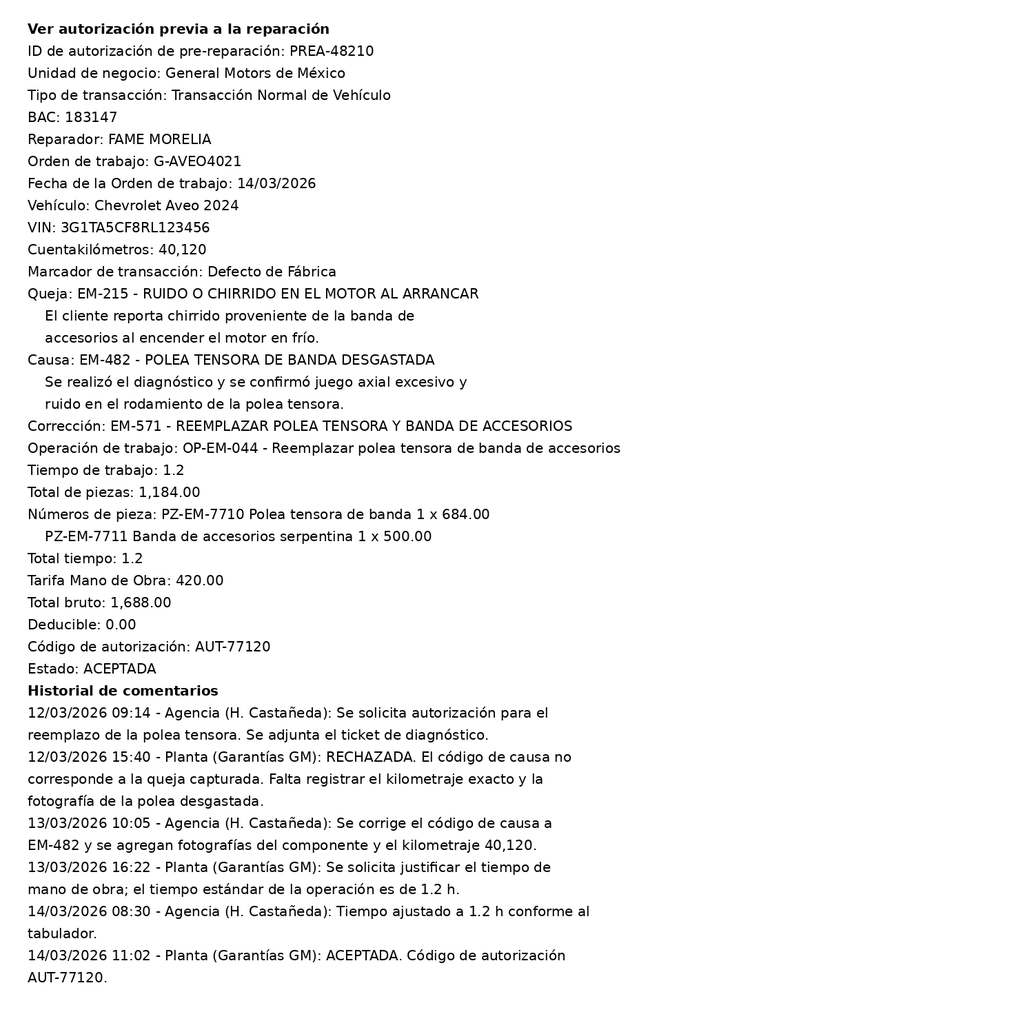
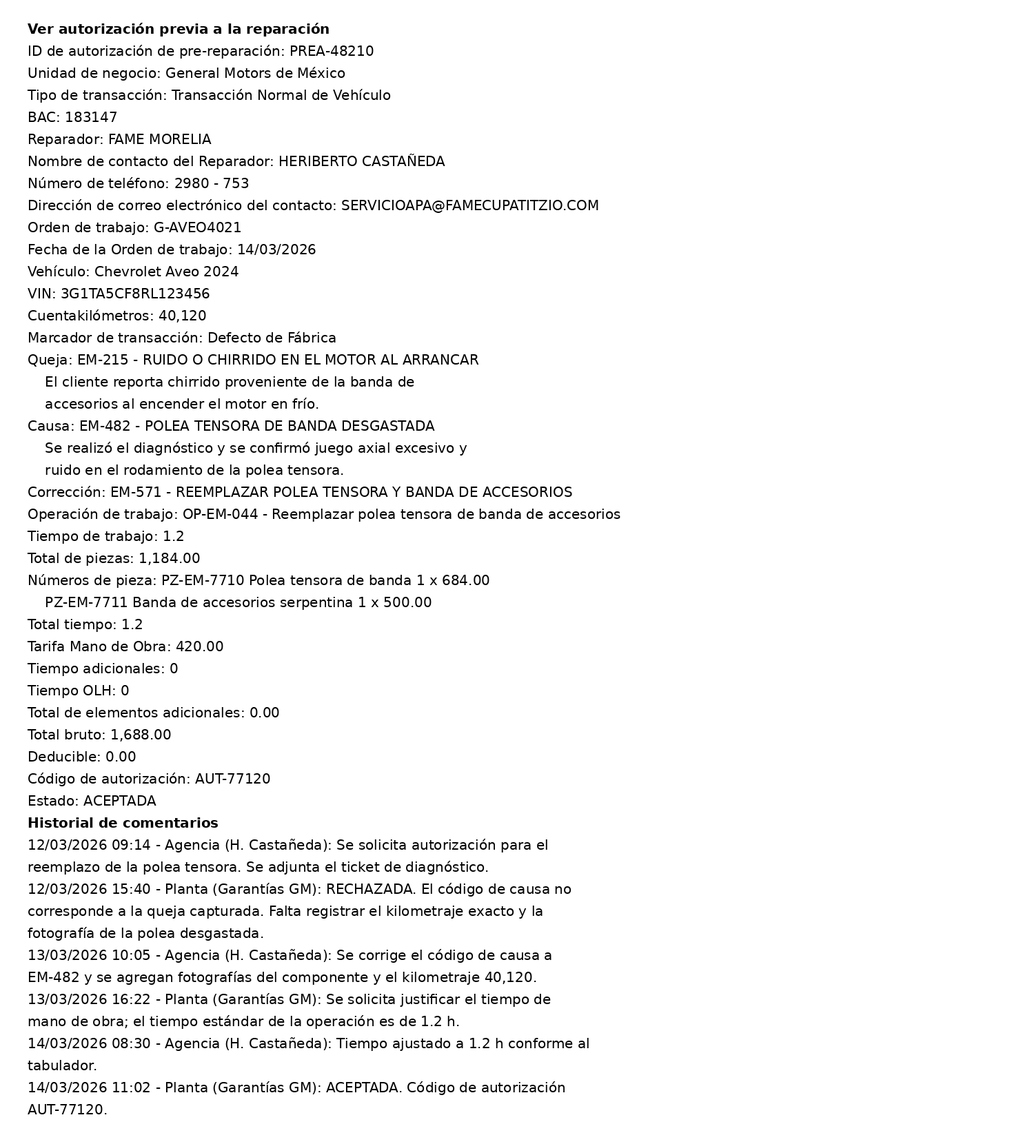
Todo el formulario de la PREA se aprende como regla (totales, tarifa, marcador, BAC, reparador, contacto, deducible…)
Variantes con tarifa, totales y marcador; valores por defecto de la agencia aprendidos del formulario
y usados por el Agente de Garantías y el chat de pruebas; reglas por campo visibles en «Ver datos»;
aprendizaje de PREAs incompletas y verificación de totales.

Claude-Session: https://claude.ai/code/session_01HHqSnwj4i5Tg1qjqFTLmED

Changed region(s): [[0.0307, 0.0, 0.6133, 0.9809], [0.4293, 0.4905, 0.46, 0.5211]]

diff --git a/index.html b/index.html
@@ -1364,7 +1364,7 @@ function ctxFrom(text,files,brand){
     km:km,kmTxt:km.toLocaleString('es-MX'),date:fmt(now),deliv:fmt(dl),vehicle:'Pickup '+dl.getFullYear()+' (ejemplo)',vin:'3GCDEMO5JG0000001',
     queja:t?(t.length>140?t.slice(0,137)+'…':t):'Falla reportada por el cliente',files:files,
     folio:'PREA-DEMO-'+String(Math.floor(100000+Math.random()*900000)),
-    ruleId:rl?rl.id:null,ruleN:rl?rl.n:0,ruleConf:rl?RS.conf(rl):0,matched:!!rl,codes:rl?(c.codes||{q:rl.q,c:rl.c,r:rl.r}):null,variantTxt:rl&&c.variant?[c.variant.mo,c.variant.an].filter(Boolean).join(' '):'',lessons:rl?(rl.les||[]):[],
+    ruleId:rl?rl.id:null,ruleN:rl?rl.n:0,ruleConf:rl?RS.conf(rl):0,matched:!!rl,codes:rl?(c.codes||{q:rl.q,c:rl.c,r:rl.r}):null,variantTxt:rl&&c.variant?[c.variant.mo,c.variant.an].filter(Boolean).join(' '):'',rate:c.rate||0,marcador:c.marcador||'',extra:c.extra||null,form:RS.d.form||{},lessons:rl?(rl.les||[]):[],
     rawText:t,vinReal:(t.match(/\b[A-HJ-NPR-Z0-9]{17}\b/i)||[''])[0].toUpperCase(),wo:(t.match(/\bG-[A-Z0-9]{6,10}\b/i)||[''])[0].toUpperCase()};
 }
 function introText(ctx){
@@ -1529,7 +1529,7 @@ var GMCODES={
 };
 function gmData(c){
   var fm=function(n){return n.toLocaleString('en-US',{minimumFractionDigits:2,maximumFractionDigits:2})};
-  var k=c.codes||GMCODES[c.sys]||GMCODES['Diagnóstico general'],sys=c.sys.toLowerCase(),RT=420,now=new Date();
+  var k=c.codes||GMCODES[c.sys]||GMCODES['Diagnóstico general'],sys=c.sys.toLowerCase(),RT=c.rate||420,now=new Date();
   var wo=c.wo||('G-'+Math.random().toString(36).slice(2,9).toUpperCase());
   var lab=+(c.h*RT).toFixed(2),gross=+(lab+c.partsTot).toFixed(2);
   return {fm:fm,RT:RT,gross:gross,lab:lab,wo:wo,
@@ -1563,23 +1563,23 @@ function gmFields(ctx){
 function buildPreaCard(ctx,steps){
   var g=gmData(ctx),F=gmFields(ctx),w=document.createElement('div');w.className='cu-wrap';
   var li=(steps||STEPS).map(function(t){return '<li data-s="pending"><span class="mk"><svg class="k" viewBox="0 0 24 24"><path d="M20 6 9 17l-5-5"/></svg><svg class="w" viewBox="0 0 24 24"><path d="M12 6v7M12 18h.01"/></svg></span><span><span class="t">'+t+'</span><span class="det"></span></span></li>'}).join('');
-  var H=gr;
+  var H=gr,FD=ctx.form||{},EXT=ctx.extra||{};
   var form='<div class="gmf" hidden>'+
    '<div class="gtop"><div class="glogo">gm</div><span class="gclose">Cerrar ventana ×</span></div>'+
    '<h3>Ver autorización previa a la reparación</h3><p class="gsub">Esta pantalla permite al usuario ver la información de una autorización previa a la reparación existente.</p>'+
    '<div class="gtabs"><span class="gtab">Autorización previa a reparación</span></div>'+
    '<div class="gbar"><span><b>Formulario sugerido por Ax Ai.</b> Los campos resaltados son los que debes capturar.</span><button class="gall" type="button" disabled>Copiar todo</button></div>'+
    '<div class="gdis"><b>Aviso de exención de responsabilidad:</b><span>Todas las cantidades son en bruto</span><i>EDITAR</i></div>'+
-   H('ID de autorización de pre-reparación','—')+H('Unidad de negocio','General Motors de México')+H('Tipo de transacción','Transacción Normal de Vehículo')+
-   H('BAC','183147')+H('Reparador','FAME MORELIA')+H('Nombre de contacto del Reparador','HERIBERTO CASTAÑEDA')+H('Número de teléfono','2980 - 753')+H('Número del fax','')+
-   H('Dirección de correo electrónico del contacto','SERVICIOAPA@FAMECUPATITZIO.COM')+H('Número de la transacción','')+
+   H('ID de autorización de pre-reparación','—')+H('Unidad de negocio',esc(FD.unidad||'General Motors de México'))+H('Tipo de transacción',esc(FD.tipo_transaccion||'Transacción Normal de Vehículo'))+
+   H('BAC',esc(FD.bac||'183147'))+H('Reparador',esc(FD.reparador||'FAME MORELIA'))+H('Nombre de contacto del Reparador',esc(FD.contacto||'HERIBERTO CASTAÑEDA'))+H('Número de teléfono',esc(FD.telefono||'2980 - 753'))+H('Número del fax','')+
+   H('Dirección de correo electrónico del contacto',esc(FD.email||'SERVICIOAPA@FAMECUPATITZIO.COM'))+H('Número de la transacción','')+
    H('Orden de trabajo',g.wo)+H('Fecha de la Orden de trabajo',g.date)+H('Nombre de usuario',esc(ctx.rawText||'—'))+H('Hora de presentación',esc(g.hora))+H('Número de referencia',g.wo)+
-   gr('VIN',null,{f:0})+gr('Cuentakilómetros',null,{f:1})+H('Marcador de transacción','Defecto de Fábrica')+
+   gr('VIN',null,{f:0})+gr('Cuentakilómetros',null,{f:1})+H('Marcador de transacción',esc(ctx.marcador||FD.marcador||'Defecto de Fábrica'))+
    gr('Queja',null,{f:2})+gr('',null,{f:3,area:1})+gr('Causa',null,{f:4})+gr('',null,{f:5,area:1})+gr('Corrección',null,{f:6})+gr('',null,{f:7,area:1})+
    gr('Operación de trabajo',null,{f:8})+gr('Tiempo de trabajo',null,{f:9})+gr('Total de piezas',null,{f:10})+gr('Números de pieza',null,{f:11})+gr('Total tiempo',null,{f:12})+
-   H('Tarifa Mano de Obra',g.fm(g.RT))+H('Tiempo adicionales','0')+H('Tiempo OLH','0')+
+   H('Tarifa Mano de Obra',g.fm(g.RT))+H('Tiempo adicionales',String(EXT.tiempo_adicional||0))+H('Tiempo OLH',String(EXT.olh||0))+
    '<div class="ghd">No se encontraron líneas.</div><table class="gtb"><thead><tr><th>Tipo de adicionales/otros</th><th>Cantidad</th></tr></thead><tbody><tr><td colspan="2">&nbsp;</td></tr></tbody></table>'+
-   H('Total de elementos adicionales','0.00')+gr('Total bruto',null,{f:13})+H('Deducible','0.00')+H('Código de autorización','')+H('Asignado a','')+H('Estado','<span class="gst">POR CAPTURAR</span>')+
+   H('Total de elementos adicionales',g.fm(EXT.elementos_adicionales||0))+gr('Total bruto',null,{f:13})+H('Deducible',g.fm(EXT.deducible||0))+H('Código de autorización','')+H('Asignado a','')+H('Estado','<span class="gst">POR CAPTURAR</span>')+
    '<div class="gbk"><b>Respaldo del agente</b><ul><li>'+basis(ctx)+'</li>'+(ctx.variantTxt?'<li>Variante aprendida de <b>'+esc(ctx.variantTxt)+'</b>.</li>':'')+(ctx.lessons||[]).slice(0,3).map(function(l){return '<li>Ojo: '+esc(l.p)+(l.c?' → '+esc(l.c):'')+'</li>'}).join('')+'<li>Tiempo estándar de la operación: '+ctx.h.toFixed(1)+' h.</li>'+ctx.parts.map(function(p){return '<li>'+p.no+' · '+esc(p.d)+' · cant. '+p.q+' · '+g.fm(p.pr)+' c/u</li>'}).join('')+'</ul></div>'+
    (ctx.prueba?'':'<div class="gfb"><span>¿Qué respondió el fabricante en su portal? Tu respuesta enseña al agente.</span><button class="gfa" type="button" data-r="ok">Fue aceptada</button><button class="gfa" type="button" data-r="no">Fue rechazada</button></div>')+
    '</div>';
@@ -1745,8 +1745,9 @@ RS.toCase=function(r,text){
   var arr=Object.keys(r.parts).map(function(no){var p=r.parts[no];return {no:no,p:p}}).sort(function(a,b){return b.p.n-a.p.n});
   var keep=arr.filter(function(x){return x.p.n>=r.n*0.5});if(!keep.length)keep=arr.slice(0,1);
   var c={sys:r.sys,op:r.op,opd:r.opd,h:r1(r.hSum/Math.max(r.n,1)),parts:keep.map(function(x){return [x.no,x.p.d,x.p.q,x.p.pr]}),codes:null,variant:null};
-  var v=RS.variantFor(r,text);
-  if(v){c.op=v.op||r.op;c.opd=v.opd||r.opd;if(v.h)c.h=r1(v.h);if(v.parts&&v.parts.length)c.parts=v.parts.map(function(p){return [p[0],p[1],p[2],p[3]]});c.codes={q:r.q,c:(v.c&&v.c[0]?v.c:r.c),r:(v.r&&v.r[0]?v.r:r.r)};c.variant=v}
+  var v=RS.variantFor(r,text),n0=r.ctx&&r.ctx[0];
+  if(n0){c.rate=n0.t||null;c.marcador=n0.mk||'';c.extra=n0.ex||null}
+  if(v){c.rate=v.t||c.rate;c.marcador=v.mk||c.marcador;c.extra=v.ex||c.extra;c.op=v.op||r.op;c.opd=v.opd||r.opd;if(v.h)c.h=r1(v.h);if(v.parts&&v.parts.length)c.parts=v.parts.map(function(p){return [p[0],p[1],p[2],p[3]]});c.codes={q:r.q,c:(v.c&&v.c[0]?v.c:r.c),r:(v.r&&v.r[0]?v.r:r.r)};c.variant=v}
   return c;
 };
 RS.note=function(hit){RS.d.stats.q++;if(hit)RS.d.stats.hit++;RS.save();RS.emit()};
@@ -1922,7 +1923,7 @@ function adRender(){
       '<span class="bg s-'+r.status+'">'+ST_LBL[r.status]+'</span></button>'+
       '<div class="rl-b"><div class="rl-g"><div><span>Queja</span>'+esc(r.q.join(' - '))+'</div><div><span>Causa</span>'+esc(r.c.join(' - '))+'</div><div><span>Corrección</span>'+esc(r.r.join(' - '))+'</div><div><span>Operación</span>'+esc(r.op)+' · '+esc(r.opd)+'</div></div>'+
       '<div class="rl-s"><span>Aprendida de: '+r.src.base+' base · '+r.src.historico+' históricas · '+r.src.asesor+' de asesores · '+r.rej+' rechazos</span><span>Palabras clave: '+esc(r.kw.join(', ')||'—')+'</span></div>'+
-      (r.ctx&&r.ctx.length?'<div class="rl-s"><span>Contextos aprendidos: '+esc(r.ctx.map(function(v){return [v.mo,v.an].filter(Boolean).join(' ')+(v.km?' · '+v.km.toLocaleString('es-MX')+' km':'')+' → '+(v.op||'')+(v.h?' · '+v.h+' h':'')}).join('  |  '))+'</span></div>':'')+
+      (r.ctx&&r.ctx.length?'<div class="rl-s"><span>Contextos aprendidos: '+esc(r.ctx.map(function(v){return [v.mo,v.an].filter(Boolean).join(' ')+(v.km?' · '+v.km.toLocaleString('es-MX')+' km':'')+' → '+(v.op||'')+(v.h?' · '+v.h+' h':'')+(v.t?' · tarifa $'+v.t:'')+(v.tb!=null?' · total $'+v.tb.toLocaleString('es-MX'):'')}).join('  |  '))+'</span></div>':'')+
       (r.les&&r.les.length?'<ul class="rl-p">'+r.les.map(function(l){return '<li><b>Error aprendido:</b> '+esc(l.p)+(l.c?' <em>→ '+esc(l.c)+'</em>':'')+'</li>'}).join('')+'</ul>':'')+
       '<ul class="rl-p">'+parts+'</ul><div class="rl-a">'+acts+'</div></div></div>';
   }).join('');
@@ -3132,7 +3133,7 @@ function trRender(){
   var body=!AX.on?'<div class="tr-empty" style="border:0">Conecta el backend: el entrenamiento se guarda en el servidor. Abre la app desde el sitio del servidor e inicia sesión.</div>':TR.err?'<div class="tr-empty" style="border:0">'+TR.err+'<br><button class="bt" data-trretry="1" style="margin-top:10px">Reintentar</button></div>':
    '<p class="tr-intro">Entrena al agente con documentos reales de tu agencia. Lee PDFs e imágenes, valida cada PREA contra las reglas que ya conoce y aprende todos los datos: cómo se llenó cada campo, qué rechazó la planta y cómo se corrigió, y cuánto pagó realmente.</p>'+
    '<div class="tr-stats"><div class="tr-st"><b>'+r.preas+'</b><span>PREAs aceptadas aprendidas</span></div><div class="tr-st"><b>'+r.pagos+'</b><span>Transacciones pagadas aprendidas</span></div><div class="tr-st"><b>'+r.reglas+'</b><span>Reglas moldeadas por documentos</span></div><div class="tr-st"><b>'+(r.revisar+r.pendientes)+'</b><span>Por revisar o leyéndose</span></div></div>'+
-   trCard('prea',1,'PREAs aceptadas','Sube PREAs que la planta ya aceptó: <b>con una sola basta</b> para crear la regla y activarla. El agente lee el formulario y el <b>historial de comentarios</b> y aprende cómo se llenó cada campo, por qué se rechazó antes y cómo se corrigió. Si es parecida a otra pero de otro modelo o contexto, la guarda como variante. También puedes subir PREAs <b>rechazadas</b>: aprende del error y lo avisa la próxima vez.','Todavía no has subido PREAs aceptadas.')+
+   trCard('prea',1,'PREAs aceptadas','Sube PREAs que la planta ya aceptó: <b>con una sola basta</b> para crear la regla y activarla. El agente lee <b>todo el formulario</b> (queja, causa, corrección, operación, tiempo, números de pieza, totales, tarifa, marcador, tipo de transacción, BAC, reparador, deducible…) y el <b>historial de comentarios</b>, y cada campo se vuelve una regla; por qué se rechazó antes y cómo se corrigió. Si es parecida a otra pero de otro modelo o contexto, la guarda como variante. También puedes subir PREAs <b>rechazadas</b>: aprende del error y lo avisa la próxima vez.','Todavía no has subido PREAs aceptadas.')+
    trCard('pago',2,'Transacciones pagadas de planta','Sube solo transacciones que la planta ya pagó correctamente. El agente aprende el tiempo pagado, la tarifa, el precio de cada pieza y los ajustes, y los liga con su PREA para corregir horas y precios de las reglas.','Todavía no has subido transacciones pagadas.')+
    '<section class="tr-card"><div class="tr-ch"><div><h3><i>3</i>Probar al agente</h3><p>Describe la reparación que necesitas (modelo, año, kilometraje y falla) y el agente te entrega <b>el formulario de la PREA completo y llenado</b> con lo que aprendió de las PREAs aceptadas, ya corregidos los errores que tuvieron en el pasado. O sube tu PREA y te la corrige. También puedes preguntarle qué aprendió y por qué rechazaron una PREA.</p></div><button class="bt pri" data-trchat="1">Abrir chat de pruebas</button></div>'+
    '<div class="tr-pr"><p>¿Quieres probar el flujo sin tus archivos? Descarga los documentos de ejemplo (un Aveo 2024 con cambio de polea y un Equinox 2023), súbelos en los apartados 1 y 2 y valida la PREA con errores en el chat.</p></div>'+
@@ -3150,8 +3151,10 @@ function trModal(){
   if(!x||!x.tipo)body='<div class="tr-empty" style="border:0">Todavía no hay datos leídos de este archivo.</div>';
   else if(esP){
     body='<div><h4>Datos generales</h4><div class="tr-g">'+trField('Folio',x.folio)+trField('Orden de trabajo',x.orden)+trField('Fecha',x.fecha&&hmF(Date.parse(x.fecha+'T12:00:00')))+trField('Vehículo',[x.marca,x.modelo,x.anio].filter(Boolean).join(' '))+trField('VIN',x.vin)+trField('Kilometraje',x.km&&x.km.toLocaleString('en-US')+' km')+trField('Sistema',x.sistema)+trField('Resultado',x.estado)+trField('Autorización',x.codigo_autorizacion)+trField('Tiempo',x.horas!=null?x.horas+' h':'')+trField('Tarifa',x.tarifa_mo!=null?carM(x.tarifa_mo):'')+trField('Total bruto',x.total_bruto!=null?carM(x.total_bruto):'')+'</div></div>'+
+     (x.campos_extra&&Object.keys(x.campos_extra).length?'<div><h4>Otros campos del formulario</h4><div class="tr-g">'+[['unidad','Unidad de negocio'],['tipo_transaccion','Tipo de transacción'],['bac','BAC'],['reparador','Reparador'],['marcador','Marcador de transacción'],['contacto','Contacto'],['telefono','Teléfono'],['email','Correo'],['deducible','Deducible'],['tiempo_adicional','Tiempo adicional'],['olh','Tiempo OLH'],['elementos_adicionales','Elementos adicionales']].filter(function(p){return x.campos_extra[p[0]]!=null}).map(function(p){var v=x.campos_extra[p[0]];return trField(p[1],typeof v==='number'&&/deducible|elementos/.test(p[0])?carM(v):v)}).join('')+'</div></div>':'')+
      '<div><h4>Cómo se llenó</h4><div class="tr-cf">'+trCod('Queja',x.queja)+trCod('Causa',x.causa)+trCod('Corrección',x.correccion)+trCod('Operación de trabajo',{codigo:x.operacion&&x.operacion.codigo,texto:x.operacion&&x.operacion.descripcion})+'</div></div>'+
      '<div><h4>Piezas</h4>'+((x.piezas||[]).length?'<table class="tr-tb"><thead><tr><th>Número</th><th>Descripción</th><th class="n">Cant.</th><th class="n">Precio</th></tr></thead><tbody>'+x.piezas.map(function(p){return '<tr><td>'+escA(p.numero)+'</td><td>'+escA(p.descripcion)+'</td><td class="n">'+(p.cantidad||1)+'</td><td class="n">'+(p.precio!=null?carM(p.precio):'—')+'</td></tr>'}).join('')+'</tbody></table>':'<div class="sm" style="color:var(--muted)">Sin piezas leídas.</div>')+'</div>'+
+     ((x._reglas||[]).length?'<div><h4>Reglas que aprendió de esta PREA</h4><table class="tr-tb"><thead><tr><th>Campo</th><th>Valor aprendido</th><th>Regla</th></tr></thead><tbody>'+x._reglas.map(function(r){return '<tr><td>'+escA(r.campo)+'</td><td>'+escA(r.valor)+'</td><td><span class="tr-v '+(r.estado==='distinto'?'difiere':r.estado==='igual'?'ok':'')+'">'+({nuevo:'Nuevo',igual:'Ya la conocía',distinto:'Variante'}[r.estado]||r.estado)+'</span></td></tr>'}).join('')+'</tbody></table></div>':'')+
      ((x.lecciones||[]).length?'<div><h4>Errores del pasado y cómo se corrigieron</h4><div class="tr-lc">'+x.lecciones.map(function(l){return '<div>'+escA(l.problema)+(l.correccion?'<small><b>Corrección:</b> '+escA(l.correccion)+'</small>':'')+((l.temas||[]).length?'<small style="color:var(--muted)">'+escA(l.temas.join(' · '))+'</small>':'')+'</div>'}).join('')+'</div></div>':'')+
      ((x.comentarios||[]).length?'<div><h4>Historial de comentarios</h4><div class="tr-tl">'+x.comentarios.map(function(c){return '<div class="'+(c.origen||'')+'"><small>'+escA(c.fecha||'')+' '+escA(c.hora||'')+' · '+escA(c.autor||c.origen||'')+'<span class="tp '+c.tipo+'">'+escA(c.tipo||'')+'</span></small>'+escA(c.texto)+'</div>'}).join('')+'</div></div>':'');
   }else{
@@ -3231,6 +3234,7 @@ function ctxDeFormulario(f,text,files){
   c.codes={q:[f.queja.codigo,f.queja.texto],c:[f.causa.codigo,f.causa.texto],r:[f.correccion.codigo,f.correccion.texto]};
   c.vinReal=f.vin||'(captura el VIN)';if(f.orden)c.wo=f.orden;
   c.vehicle=f.vehiculo||c.vehicle;c.matched=true;c.ruleId=f.regla?f.regla.id:null;c.ruleN=f.regla?f.regla.n:1;c.ruleConf=f.regla?f.regla.confianza:0;
+  c.rate=f.tarifa||0;c.marcador=(f.extras&&f.extras.marcador)||'';c.extra=f.extras||null;c.form=Object.assign({},RS.d.form||{},f.extras||{});
   c.rawText=(f.descripcion||text||'').trim()||c.rawText;c.prueba=true;
   return c;
 }

diff --git a/server/train/learn.js b/server/train/learn.js
@@ -21,11 +21,24 @@ function claveRegla(d) {
   const sys = d.sistema || 'Por clasificar';
   return { sys, qCode: (d.queja.codigo || '') || 'SC-' + hash6(P.norm(d.queja.texto || d.operacion.descripcion || '')) };
 }
-function guardarVariante(doc, ruleId, d) {
-  db.prepare(`INSERT INTO rule_variants (rule_id, doc_id, marca, modelo, anio, km, op, op_desc, c_code, c_text, r_code, r_text, hours, parts, created_at) VALUES (?,?,?,?,?,?,?,?,?,?,?,?,?,?,?)`)
+const CAMPOS_FIJOS = [['unidad', 'Unidad de negocio'], ['tipo_transaccion', 'Tipo de transacción'], ['bac', 'BAC'], ['reparador', 'Reparador'], ['marcador', 'Marcador de transacción'], ['contacto', 'Nombre de contacto'], ['telefono', 'Teléfono'], ['email', 'Correo del contacto']];
+const leerDefaults = () => { try { return JSON.parse(getSet('form_defaults', '{}')); } catch (_) { return {}; } };
+function guardarVariante(doc, ruleId, d, h) {
+  const ex = d.campos_extra || {};
+  db.prepare(`INSERT INTO rule_variants (rule_id, doc_id, marca, modelo, anio, km, op, op_desc, c_code, c_text, r_code, r_text, hours, parts, tarifa, total_piezas, total_bruto, marcador, extra, created_at) VALUES (?,?,?,?,?,?,?,?,?,?,?,?,?,?,?,?,?,?,?,?)`)
     .run(ruleId, doc.id, d.marca || '', d.modelo || '', d.anio || null, d.km || null, d.operacion.codigo || '', d.operacion.descripcion || '', d.causa.codigo || '', d.causa.texto || '', d.correccion.codigo || '', d.correccion.texto || '',
-      Number(d.horas) || 0, JSON.stringify((d.piezas || []).map(p => [p.numero || 'S/N', p.descripcion || '', p.cantidad || 1, p.precio || 0])), Date.now());
+      h, JSON.stringify((d.piezas || []).map(p => [p.numero || 'S/N', p.descripcion || '', p.cantidad || 1, p.precio || 0])), d.tarifa_mo || null, d.total_piezas != null ? d.total_piezas : null, d.total_bruto != null ? d.total_bruto : null,
+      ex.marcador || '', JSON.stringify({ tipo_transaccion: ex.tipo_transaccion, deducible: ex.deducible, tiempo_adicional: ex.tiempo_adicional, olh: ex.olh, elementos_adicionales: ex.elementos_adicionales }), Date.now());
 }
+// Datos fijos de la agencia (BAC, reparador, contacto, unidad de negocio...): se aprende el valor más frecuente de las PREAs aceptadas
+function sumarDefaults(d, signo) {
+  const m = leerDefaults(), ex = d.campos_extra || {}, usados = [];
+  CAMPOS_FIJOS.forEach(([k]) => { const v = ex[k]; if (!v) return; m[k] = m[k] || {}; m[k][v] = Math.max(0, (m[k][v] || 0) + signo); if (!m[k][v]) delete m[k][v]; usados.push([k, v]); });
+  putSet('form_defaults', JSON.stringify(m));
+  return usados;
+}
+const igual = (a, b) => String(a == null ? '' : a).trim().toUpperCase() === String(b == null ? '' : b).trim().toUpperCase();
+const cod = c => c && (c.codigo || c.texto) ? [c.codigo, c.texto].filter(Boolean).join(' · ') : '';
 function guardarLecciones(doc, k, lecs, origen) {
   let n = 0;
   (lecs || []).forEach(l => {
@@ -40,14 +53,15 @@ function guardarLecciones(doc, k, lecs, origen) {
 function aprenderPrea(doc, d) {
   const now = Date.now(), K = claveRegla(d), sys = K.sys, qCode = K.qCode;
   let rule = db.prepare('SELECT * FROM rules WHERE sys = ? AND q_code = ?').get(sys, qCode), kind, val = [];
-  const h = Number(d.horas) || 0, pz = d.piezas || [];
+  const hRaw = Number(d.horas) || 0, pz = d.piezas || [];
+  const h = hRaw || (rule ? rule.hours_sum / Math.max(rule.n, 1) : 0);
   const insPart = db.prepare('INSERT INTO rule_parts (rule_id, part_no, descr, qty, price, n) VALUES (?,?,?,?,?,1) ON CONFLICT(rule_id, part_no) DO UPDATE SET n = n + 1, qty = excluded.qty, price = excluded.price, descr = excluded.descr');
   const insKw = db.prepare('INSERT OR IGNORE INTO rule_keywords (rule_id, keyword) VALUES (?, ?)');
   if (!rule) {
     const id = nextRuleId();
     db.prepare(`INSERT INTO rules (id, sys, q_code, q_text, c_code, c_text, r_code, r_text, op, op_desc, hours, hours_sum, n, rej, status, src_base, src_historico, src_asesor, created_at, updated_at)
                 VALUES (?,?,?,?,?,?,?,?,?,?,?,?,1,0,'aprendizaje',0,1,0,?,?)`)
-      .run(id, sys, qCode, d.queja.texto || '', d.causa.codigo || '', d.causa.texto || '', d.correccion.codigo || '', d.correccion.texto || '', d.operacion.codigo || '', d.operacion.descripcion || '', h, h, now, now);
+      .run(id, sys, qCode, d.queja.texto || '', d.causa.codigo || '', d.causa.texto || '', d.correccion.codigo || '', d.correccion.texto || '', d.operacion.codigo || '', d.operacion.descripcion || '', hRaw, hRaw, now, now);
     pz.forEach(p => insPart.run(id, p.numero || 'S/N', p.descripcion || '', p.cantidad || 1, p.precio || 0));
     keywords(d).forEach(w => insKw.run(id, w));
     logEvent('creada', id, `Regla nueva ${id}: ${(d.queja.texto || '').toLowerCase()} → ${d.operacion.codigo || d.operacion.descripcion} (${sys}) · aprendida de «${doc.name}»`);
@@ -60,7 +74,7 @@ function aprenderPrea(doc, d) {
     if (rule.op && d.operacion.codigo && rule.op !== d.operacion.codigo) dif.push(`opera con ${d.operacion.codigo} (la regla principal usa ${rule.op})`);
     if (rule.c_code && d.causa.codigo && rule.c_code !== d.causa.codigo) dif.push(`usa la causa ${d.causa.codigo} (la regla principal, ${rule.c_code})`);
     if (rule.r_code && d.correccion.codigo && rule.r_code !== d.correccion.codigo) dif.push(`usa la corrección ${d.correccion.codigo} (la regla principal, ${rule.r_code})`);
-    if (h && avg && Math.abs(h - avg) / avg > 0.2) dif.push(`toma ${h} h (promedio de la regla, ${r1(avg)} h)`);
+    if (hRaw && avg && Math.abs(hRaw - avg) / avg > 0.2) dif.push(`toma ${hRaw} h (promedio de la regla, ${r1(avg)} h)`);
     const nuevas = pz.filter(p => p.numero && !parts.includes(p.numero)).map(p => p.numero);
     if (nuevas.length) dif.push(`incluye piezas nuevas (${nuevas.join(', ')})`);
     const modeloNuevo = d.modelo && !previas.some(v => P.norm(v.modelo || '') === P.norm(d.modelo));
@@ -74,7 +88,30 @@ function aprenderPrea(doc, d) {
     rule = db.prepare('SELECT * FROM rules WHERE id = ?').get(rule.id); kind = 'reforzada';
     logEvent('reforzada', rule.id, `Regla ${rule.id} reforzada con la PREA «${doc.name}» · ${rule.n} en total`);
   }
-  guardarVariante(doc, rule.id, d);
+  // Reglas por campo: qué valor aprendió de cada campo del formulario y si ya lo conocía
+  const prev = db.prepare('SELECT * FROM rule_variants WHERE rule_id = ?').all(rule.id), ex = d.campos_extra || {}, reglas = [], defs = leerDefaults();
+  const base = kind === 'creada' ? null : rule;
+  const campo = (nombre, valor, conocido) => { if (valor == null || valor === '') return; reglas.push({ campo: nombre, valor: String(valor), estado: kind === 'creada' ? 'nuevo' : (conocido ? 'igual' : 'distinto') }); };
+  campo('Queja', cod(d.queja), base && igual(base.q_code, d.queja.codigo));
+  campo('Causa', cod(d.causa), base && prev.some(v => igual(v.c_code, d.causa.codigo)));
+  campo('Corrección', cod(d.correccion), base && prev.some(v => igual(v.r_code, d.correccion.codigo)));
+  campo('Operación de trabajo', [d.operacion.codigo, d.operacion.descripcion].filter(Boolean).join(' · '), base && prev.some(v => igual(v.op, d.operacion.codigo)));
+  campo('Tiempo de trabajo', hRaw ? hRaw + ' h' : '', base && prev.some(v => v.hours === hRaw));
+  campo('Números de pieza', pz.map(p => p.numero).join(', '), base && prev.some(v => JSON.parse(v.parts || '[]').map(x => x[0]).join(',') === pz.map(p => p.numero).join(',')));
+  campo('Total de piezas', d.total_piezas != null ? '$' + d.total_piezas.toLocaleString('en-US') : '', base && prev.some(v => v.total_piezas === d.total_piezas));
+  campo('Tarifa mano de obra', d.tarifa_mo ? '$' + d.tarifa_mo : '', base && prev.some(v => v.tarifa === d.tarifa_mo));
+  campo('Total bruto', d.total_bruto != null ? '$' + d.total_bruto.toLocaleString('en-US') : '', base && prev.some(v => v.total_bruto === d.total_bruto));
+  CAMPOS_FIJOS.forEach(([k, n]) => campo(n, ex[k], base && Object.keys(defs[k] || {}).some(x => igual(x, ex[k]))));
+  campo('Deducible', ex.deducible != null ? '$' + ex.deducible : '', base && prev.some(v => (JSON.parse(v.extra || '{}')).deducible === ex.deducible));
+  if (ex.tiempo_adicional) campo('Tiempo adicional', ex.tiempo_adicional + ' h', false);
+  // Totales: el total bruto debe ser tiempo x tarifa + piezas
+  const esperado = hRaw && d.tarifa_mo ? +(hRaw * d.tarifa_mo + (d.total_piezas != null ? d.total_piezas : pz.reduce((t, p) => t + (p.precio || 0) * (p.cantidad || 1), 0))).toFixed(2) : null;
+  if (esperado && d.total_bruto != null && Math.abs(esperado - d.total_bruto) / Math.max(d.total_bruto, 1) > 0.03) val.push({ nivel: 'aviso', campo: 'totales', texto: `El total bruto ($${d.total_bruto.toLocaleString('en-US')}) no coincide con tiempo × tarifa + piezas ($${esperado.toLocaleString('en-US')}); se guardó tal como vino.` });
+  const faltan = [!d.causa.codigo && !d.causa.texto && 'causa', !d.correccion.codigo && !d.correccion.texto && 'corrección', !(hRaw > 0) && 'tiempo', !pz.length && 'piezas', !d.tarifa_mo && 'tarifa', d.total_bruto == null && 'total bruto'].filter(Boolean);
+  if (faltan.length) val.push({ nivel: 'aviso', campo: 'campos', texto: `Faltaron estos campos en el documento (se aprendió todo lo demás): ${faltan.join(', ')}.` });
+  d._reglas = reglas;
+  guardarVariante(doc, rule.id, d, hRaw);
+  d._defs = sumarDefaults(d, +1);
   const nl = guardarLecciones(doc, K, d.lecciones, 'aceptada');
   if (nl) val.push({ nivel: 'ok', campo: 'errores', texto: `Aprendí ${nl} ${nl === 1 ? 'error del historial' : 'errores del historial'} de esta queja.` });
   const th = Math.max(1, Number(getSet('th', 1)));
@@ -164,6 +201,8 @@ function aprenderPago(doc, d) {
 // Deshace lo aprendido de un documento (al eliminarlo)
 function olvidar(doc) {
   const d = JSON.parse(doc.data || '{}'), ad = d._ajuste || {}, now = Date.now();
+  const vh = db.prepare('SELECT hours FROM rule_variants WHERE doc_id = ?').get(doc.id);
+  if (Array.isArray(d._defs)) { const m = leerDefaults(); d._defs.forEach(([k, v]) => { if (m[k] && m[k][v]) { m[k][v] -= 1; if (m[k][v] <= 0) delete m[k][v]; } }); putSet('form_defaults', JSON.stringify(m)); }
   db.prepare('DELETE FROM rule_variants WHERE doc_id = ?').run(doc.id);
   db.prepare('DELETE FROM train_lessons WHERE doc_id = ?').run(doc.id);
   if (d._modo === 'error') {
@@ -174,7 +213,7 @@ function olvidar(doc) {
   const r = db.prepare('SELECT * FROM rules WHERE id = ?').get(doc.rule_id);
   if (!r) return;
   if (doc.kind === 'prea') {
-    const h = Number(d.horas) || 0;
+    const h = Number(d.horas) > 0 ? Number(d.horas) : (vh ? Number(vh.hours) || 0 : 0);
     if (r.n <= 1 && !r.src_base && !r.src_asesor) { db.prepare('DELETE FROM rules WHERE id = ?').run(r.id); logEvent('info', '', `Se eliminó la regla ${r.id}: su única PREA se quitó del entrenamiento`); }
     else {
       db.prepare('UPDATE rules SET n = MAX(n - 1, 0), hours_sum = MAX(hours_sum - ?, 0), src_historico = MAX(src_historico - 1, 0), updated_at = ? WHERE id = ?').run(h, now, r.id);

diff --git a/server/train/parse.js b/server/train/parse.js
@@ -24,7 +24,9 @@ const DIC_PREA = {
   'queja': 'queja', 'causa': 'causa', 'correccion': 'correccion', 'operacion de trabajo': 'operacion', 'operacion': 'operacion',
   'tiempo de trabajo': 'horas', 'horas': 'horas', 'total tiempo': 'total_tiempo', 'total de piezas': 'total_piezas', 'numeros de pieza': 'piezas', 'piezas': 'piezas',
   'tarifa mano de obra': 'tarifa', 'total bruto': 'total', 'deducible': 'deducible', 'codigo de autorizacion': 'auth', 'estado': 'estado', 'estatus': 'estado',
-  'unidad de negocio': 'unidad', 'tipo de transaccion': 'tipo', 'marca': 'marca', 'modelo': 'modelo', 'ano': 'anio', 'anio': 'anio', 'ano modelo': 'anio', 'ano del modelo': 'anio', 'ano del vehiculo': 'anio', 'descripcion del vehiculo': 'vehiculo'
+  'unidad de negocio': 'unidad', 'tipo de transaccion': 'tipo', 'marca': 'marca', 'modelo': 'modelo', 'ano': 'anio', 'anio': 'anio', 'ano modelo': 'anio', 'ano del modelo': 'anio', 'ano del vehiculo': 'anio', 'descripcion del vehiculo': 'vehiculo',
+  'nombre de contacto del reparador': 'contacto', 'numero de telefono': 'telefono', 'numero del fax': 'fax', 'direccion de correo electronico del contacto': 'email', 'numero de la transaccion': 'ntrans',
+  'tiempo adicionales': 't_adic', 'tiempo olh': 'olh', 'total de elementos adicionales': 'elem_adic', 'asignado a': 'asignado', 'hora de presentacion': 'hora', 'nombre de usuario': 'usuario'
 };
 const DIC_PAGO = {
   'referencia de pago': 'ref', 'fecha de pago': 'fecha', 'orden de trabajo': 'orden', 'codigo de autorizacion': 'auth', 'autorizacion': 'auth',
@@ -134,6 +136,13 @@ function lecciones(coms) {
   return out;
 }
 
+// Campos del formulario que no son queja/causa/corrección/operación/tiempo/piezas pero también se aprenden como reglas
+function extras(v, f) {
+  const e = { unidad: v('unidad'), tipo_transaccion: v('tipo'), bac: v('bac'), reparador: v('reparador'), marcador: v('marcador'), contacto: v('contacto'), telefono: v('telefono'), email: v('email'),
+    deducible: money(v('deducible')), tiempo_adicional: money(v('t_adic')), olh: money(v('olh')), elementos_adicionales: money(v('elem_adic')) };
+  Object.keys(e).forEach(k => { if (e[k] === '' || e[k] == null) delete e[k]; });
+  return e;
+}
 function parsePrea(texto) {
   const { f, com } = leer(texto, DIC_PREA), v = k => clean((f[k] || []).join(' '));
   const q = codigo(f.queja), c = codigo(f.causa), r = codigo(f.correccion), o = codigo(f.operacion);
@@ -151,7 +160,8 @@ function parsePrea(texto) {
   const d = {
     tipo: 'prea', folio: v('folio'), orden: v('orden'), fecha: toIso(v('fecha')), vin, marca: veh.marca, modelo: veh.modelo, anio: veh.anio, km, sistema,
     queja: q, causa: c, correccion: r, operacion: { codigo: o.codigo, descripcion: o.texto }, horas, tarifa_mo: money(v('tarifa')), piezas: pz,
-    total_piezas: money(v('total_piezas')), total_bruto: money(v('total')), codigo_autorizacion: v('auth'), estado,
+    total_piezas: money(v('total_piezas')), total_bruto: money(v('total')), total_tiempo: money(v('total_tiempo')), codigo_autorizacion: v('auth'), estado,
+    campos_extra: extras(v, f),
     fecha_aceptacion: aceptada ? aceptada.fecha : null, comentarios: coms, lecciones: lecciones(coms)
   };
   d.resumen = resumenPrea(d);

diff --git a/server/db.js b/server/db.js
@@ -22,6 +22,7 @@ db.exec(fs.readFileSync(path.join(__dirname, 'schema.sql'), 'utf8'));
   const add = (tabla, cols) => { const have = db.prepare(`PRAGMA table_info(${tabla})`).all().map(c => c.name); cols.forEach(([n, t]) => { if (!have.includes(n)) db.exec(`ALTER TABLE ${tabla} ADD COLUMN ${n} ${t}`); }); };
   add('rules', [['paid_n', 'INTEGER NOT NULL DEFAULT 0'], ['paid_hours_sum', 'REAL NOT NULL DEFAULT 0'], ['paid_amount_sum', 'REAL NOT NULL DEFAULT 0']]);
   add('chat_threads', [['kind', "TEXT NOT NULL DEFAULT 'mi'"]]);
+  add('rule_variants', [['tarifa', 'REAL'], ['total_piezas', 'REAL'], ['total_bruto', 'REAL'], ['marcador', 'TEXT'], ['extra', 'TEXT']]);
 }
 
 // Confianza de una regla: misma fórmula que RS.conf en index.html
@@ -83,16 +84,18 @@ function loadState() {
   const vars = group(db.prepare('SELECT * FROM rule_variants ORDER BY id DESC').all(), 'rule_id');
   const les = {}; db.prepare('SELECT * FROM train_lessons ORDER BY id DESC').all().forEach(l => { const k = l.sys + '|' + l.q_code; (les[k] = les[k] || []); if (les[k].length < 8 && !les[k].some(x => x.p === l.problema)) les[k].push({ p: l.problema, c: l.correccion || '', t: JSON.parse(l.temas || '[]') }); });
   rules.forEach(r => {
-    r.ctx = (vars[r.id] || []).slice(0, 12).map(v => ({ mo: v.modelo || '', an: v.anio || null, km: v.km || null, op: v.op, opd: v.op_desc, h: v.hours, c: [v.c_code, v.c_text], r: [v.r_code, v.r_text], parts: JSON.parse(v.parts || '[]') }));
+    r.ctx = (vars[r.id] || []).slice(0, 12).map(v => ({ mo: v.modelo || '', an: v.anio || null, km: v.km || null, op: v.op, opd: v.op_desc, h: v.hours, c: [v.c_code, v.c_text], r: [v.r_code, v.r_text], parts: JSON.parse(v.parts || '[]'), t: v.tarifa || null, tp: v.total_piezas, tb: v.total_bruto, mk: v.marcador || '', ex: JSON.parse(v.extra || '{}') }));
     r.les = les[r.sys + '|' + r.q[0]] || [];
   });
   const log = db.prepare('SELECT ts, type, rule_id, msg FROM rule_log ORDER BY ts DESC, id DESC LIMIT 120')
     .all().map(l => ({ t: l.ts, type: l.type, rule: l.rule_id || '', msg: l.msg }));
   const advisors = db.prepare('SELECT id, name FROM advisors WHERE active = 1 ORDER BY created_at, id').all();
+  let form = {};
+  try { const m = JSON.parse(getSet('form_defaults', '{}')); Object.keys(m).forEach(k => { const e = Object.entries(m[k]).sort((a, b) => b[1] - a[1])[0]; if (e) form[k] = e[0]; }); } catch (_) {}
   return {
     rev: getRev(), advisors,
     state: {
-      v: 1, rules, log,
+      v: 1, rules, log, form,
       cfg: { th: Number(getSet('th', 1)), auto: getSet('auto', 'true') === 'true' },
       stats: { q: Number(getSet('stats_q', 0)), hit: Number(getSet('stats_hit', 0)) },
       seq: Math.max(Number(getSet('seq', 0)), rules.length)

diff --git a/server/train/extract.js b/server/train/extract.js
@@ -37,6 +37,8 @@ const SCHEMA = {
       queja: COD, causa: COD, correccion: COD, operacion: { type: 'object', properties: { codigo: { type: 'string' }, descripcion: { type: 'string' } } },
       horas: { type: 'number', description: 'Tiempo de trabajo en horas' }, tarifa_mo: { type: 'number' }, piezas: { type: 'array', items: PIEZA },
       total_piezas: { type: 'number' }, total_bruto: { type: 'number' }, codigo_autorizacion: { type: 'string' }, estado: { type: 'string', enum: ['aceptada', 'rechazada', 'pendiente'] },
+      campos_extra: { type: 'object', description: 'Otros campos del formulario', properties: { unidad: { type: 'string', description: 'Unidad de negocio' }, tipo_transaccion: { type: 'string' }, bac: { type: 'string' }, reparador: { type: 'string' }, marcador: { type: 'string', description: 'Marcador de transacción' },
+        contacto: { type: 'string' }, telefono: { type: 'string' }, email: { type: 'string' }, deducible: { type: 'number' }, tiempo_adicional: { type: 'number' }, olh: { type: 'number' }, elementos_adicionales: { type: 'number' } } },
       comentarios: { type: 'array', description: 'Historial de comentarios completo, en orden cronológico', items: { type: 'object', properties: {
         fecha: { type: 'string', description: 'yyyy-mm-dd' }, hora: { type: 'string' }, autor: { type: 'string' }, origen: { type: 'string', enum: ['agencia', 'planta', 'otro'] },
         tipo: { type: 'string', enum: ['rechazo', 'solicitud', 'correccion', 'aceptacion', 'info'] }, texto: { type: 'string' } } } },
@@ -78,7 +80,7 @@ function normalizar(tipo, d, texto) {
   if (tipo === 'prea') {
     ['queja', 'causa', 'correccion'].forEach(k => { d[k] = Object.assign({ codigo: '', texto: '', detalle: '' }, d[k] || {}); });
     d.operacion = Object.assign({ codigo: '', descripcion: '' }, d.operacion || {});
-    d.piezas = d.piezas || []; d.comentarios = (d.comentarios || []).map(c => Object.assign({ origen: 'otro', tipo: 'info' }, c));
+    d.campos_extra = d.campos_extra || {}; d.piezas = d.piezas || []; d.comentarios = (d.comentarios || []).map(c => Object.assign({ origen: 'otro', tipo: 'info' }, c));
     d.sistema = d.sistema && d.sistema !== 'Por clasificar' ? d.sistema : P.inferirSistema([d.queja.texto, d.causa.texto, d.correccion.texto, d.operacion.descripcion].join(' '));
     if (!d.lecciones || !d.lecciones.length) d.lecciones = P.lecciones(d.comentarios);
     d.lecciones = d.lecciones.map(l => Object.assign({ temas: [], correccion: '' }, l));

diff --git a/server/train/ask.js b/server/train/ask.js
@@ -161,6 +161,7 @@ function armarFormulario(cand, best, cmp) {
     queja: d.queja, causa: d.causa, correccion: d.correccion, operacion: d.operacion, horas, tarifa, piezas, total_piezas: +tp.toFixed(2), total_bruto: +(horas * tarifa + tp).toFixed(2),
     descripcion: (cand._doc && cand.queja && cand.queja.detalle) || d.queja.detalle || cand._texto || '', regla: regla ? { id: regla.id, n: regla.n, confianza: conf } : null,
     base: { folio: d.folio || d.orden, orden: d.orden, vehiculo: [d.marca, d.modelo, d.anio].filter(Boolean).join(' '), km: d.km, aceptada: aceptadaEl(d), autorizacion: d.codigo_autorizacion },
+    extras: Object.assign({}, d.campos_extra || {}),
     cambios: (cmp || []).filter(x => x.n !== 'ok').length
   };
 }
@@ -168,7 +169,9 @@ function tablaFormulario(f) {
   const row = (k, v) => `| ${k} | ${v} |`;
   return ['| Campo | Valor |', '| --- | --- |', row('Vehículo', f.vehiculo || '—'), row('Kilometraje', f.km ? f.km.toLocaleString('en-US') + ' km' : '—'), row('Queja', cod(f.queja)), row('Causa', cod(f.causa)), row('Corrección', cod(f.correccion)),
     row('Operación de trabajo', [f.operacion.codigo, f.operacion.descripcion].filter(Boolean).join(' · ') || '—'), row('Tiempo de trabajo', f.horas != null ? f.horas + ' h' : '—'),
-    row('Números de pieza', f.piezas.map(x => `${x.numero} ${x.descripcion} ×${x.cantidad} (${m2(x.precio)})`).join('; ') || '—'), row('Total de piezas', m2(f.total_piezas)), row('Tarifa mano de obra', m2(f.tarifa)), row('Total bruto', m2(f.total_bruto))].join('\n');
+    row('Números de pieza', f.piezas.map(x => `${x.numero} ${x.descripcion} ×${x.cantidad} (${m2(x.precio)})`).join('; ') || '—'), row('Total de piezas', m2(f.total_piezas)), row('Tarifa mano de obra', m2(f.tarifa)), row('Total bruto', m2(f.total_bruto)),
+    ...(f.extras && f.extras.marcador ? [row('Marcador de transacción', f.extras.marcador)] : []), ...(f.extras && f.extras.tipo_transaccion ? [row('Tipo de transacción', f.extras.tipo_transaccion)] : []),
+    ...(f.extras && f.extras.deducible != null ? [row('Deducible', m2(f.extras.deducible))] : [])].join('\n');
 }
 
 function resumenGeneral(k) {

diff --git a/server/routes/entrenamiento.js b/server/routes/entrenamiento.js
@@ -8,6 +8,7 @@ const { db, DB_PATH } = require('../db');
 const { requireAuth } = require('./auth');
 const { extraer, faltantes } = require('../train/extract');
 const L = require('../train/learn');
+const P = require('../train/parse');
 const { responder } = require('../train/ask');
 
 const router = express.Router();
@@ -57,7 +58,16 @@ async function procesar(id, { forzar = false } = {}) {
       db.transaction(() => { const r = L.aprenderError(doc, data); data._modo = 'error'; data._validacion = r.validacion; data._rej = r.rej; set(id, { data: JSON.stringify(data), texto: texto.slice(0, 20000), engine, status: 'aprendida', error: null, rule_id: r.rule ? r.rule.id : null, learned_at: Date.now() }); })();
       return;
     }
-    if (falta.length) { set(id, { ...base, status: 'revisar', error: 'No pude leer: ' + falta.join(', ') + '. Revisa que el archivo sea legible o sube una versión más clara.' }); return; }
+    // Se aprende de TODAS las PREAs: si falta algún campo se aprende lo demás; solo se detiene si no hay ningún dato legible
+    const sinDatos = tipo === 'prea'
+      ? !(data.queja && (data.queja.codigo || data.queja.texto)) && !(data.operacion && (data.operacion.codigo || data.operacion.descripcion)) && !(data.horas > 0) && !(data.piezas && data.piezas.length)
+      : falta.length > 0;
+    if (sinDatos) { set(id, { ...base, status: 'revisar', error: 'No pude leer datos de este archivo (' + falta.join(', ') + '). Revisa que sea legible o sube una versión más clara.' }); return; }
+    if (tipo === 'prea') {
+      if (!data.sistema || data.sistema === 'Por clasificar') data.sistema = P.inferirSistema(texto.slice(0, 3000));
+      if (!(data.queja.codigo || data.queja.texto)) data.queja.texto = data.operacion.descripcion || data.correccion.texto || 'SIN QUEJA CAPTURADA';
+      data.faltantes = falta;
+    }
     db.transaction(() => {
       if (tipo === 'prea') {
         const r = L.aprenderPrea(doc, data); data._validacion = r.validacion;

diff --git a/samples/generar.py b/samples/generar.py
@@ -55,7 +55,8 @@ def imagen(nombre, titulo, campos, comentarios):
 # ---------- 1) PREA aceptada: polea tensora, Aveo 2024, 40,120 km ----------
 prea_aveo = [
  ('ID de autorización de pre-reparación', 'PREA-48210'), ('Unidad de negocio', 'General Motors de México'), ('Tipo de transacción', 'Transacción Normal de Vehículo'),
- ('BAC', '183147'), ('Reparador', 'FAME MORELIA'), ('Orden de trabajo', 'G-AVEO4021'), ('Fecha de la Orden de trabajo', '14/03/2026'),
+ ('BAC', '183147'), ('Reparador', 'FAME MORELIA'), ('Nombre de contacto del Reparador', 'HERIBERTO CASTAÑEDA'), ('Número de teléfono', '2980 - 753'), ('Dirección de correo electrónico del contacto', 'SERVICIOAPA@FAMECUPATITZIO.COM'),
+ ('Orden de trabajo', 'G-AVEO4021'), ('Fecha de la Orden de trabajo', '14/03/2026'),
  ('Vehículo', 'Chevrolet Aveo 2024'), ('VIN', '3G1TA5CF8RL123456'), ('Cuentakilómetros', '40,120'), ('Marcador de transacción', 'Defecto de Fábrica'),
  ('Queja', 'EM-215 - RUIDO O CHIRRIDO EN EL MOTOR AL ARRANCAR'),
  ('', 'El cliente reporta chirrido proveniente de la banda de accesorios al encender el motor en frío.'),
@@ -65,7 +66,7 @@ prea_aveo = [
  ('Operación de trabajo', 'OP-EM-044 - Reemplazar polea tensora de banda de accesorios'), ('Tiempo de trabajo', '1.2'),
  ('Total de piezas', '1,184.00'),
  ('Números de pieza', 'PZ-EM-7710  Polea tensora de banda  1 x 684.00'), ('', 'PZ-EM-7711  Banda de accesorios serpentina  1 x 500.00'),
- ('Total tiempo', '1.2'), ('Tarifa Mano de Obra', '420.00'), ('Total bruto', '1,688.00'), ('Deducible', '0.00'),
+ ('Total tiempo', '1.2'), ('Tarifa Mano de Obra', '420.00'), ('Tiempo adicionales', '0'), ('Tiempo OLH', '0'), ('Total de elementos adicionales', '0.00'), ('Total bruto', '1,688.00'), ('Deducible', '0.00'),
  ('Código de autorización', 'AUT-77120'), ('Estado', 'ACEPTADA')]
 com_aveo = [
  '12/03/2026 09:14 - Agencia (H. Castañeda): Se solicita autorización para el reemplazo de la polea tensora. Se adjunta el ticket de diagnóstico.',

diff --git a/server/README.md b/server/README.md
@@ -117,6 +117,8 @@ Tres apartados:
 2. **Transacciones pagadas de planta**: PDFs o imágenes de pagos. Se ligan a su PREA (orden de trabajo, autorización, folio o VIN) y corrigen las horas y los precios de pieza de la regla con lo que la planta realmente pagó.
 3. **Probar al agente**: el mismo chat de siempre y su función principal: **entregarte el formulario de la PREA completo y llenado**. Describe la reparación («cambio de polea tensora de un Aveo 2024 de 40 mil km») o sube tu PREA y el agente busca la PREA aceptada más parecida y arma el formulario GM (queja, causa, corrección, operación, tiempo, piezas, totales) con sus botones de Copiar, usando el tiempo y los precios que realmente pagó la planta y evitando los errores del historial. Si subes tu PREA, te dice qué corrigió. Si le preguntas «¿qué has aprendido?» o «¿por qué rechazaron esa PREA?», responde con texto. Es una simulación: no registra nada en la Bitácora ni se aprende de ella.
 
+**Todo el formulario es una regla.** De cada PREA se aprenden, además de la queja, causa, corrección, operación, tiempo y números de pieza: total de piezas, **tarifa** de mano de obra, **total bruto**, marcador de transacción, tipo de transacción, unidad de negocio, BAC, reparador, contacto (nombre, teléfono, correo), deducible y tiempos adicionales. Cada variante guarda su tarifa, totales y marcador; los datos fijos de la agencia se aprenden como valores por defecto (el más frecuente) y reemplazan los que antes estaban escritos a mano en el formulario. «Ver datos» muestra, campo por campo, la regla aprendida y si era nueva, ya conocida o una variante. Se verifica que el total bruto cuadre con tiempo × tarifa + piezas. Se aprende de **todas** las PREAs: si a un documento le faltan campos se aprende lo demás y se avisa qué faltó (solo se detiene si no hay ningún dato legible).
+
 **Con una sola PREA aceptada basta**: la regla se crea, se activa y se reparte a los asesores al instante (el umbral del Tablero ahora es de 1 PREA por defecto y se puede subir). Además:
 
 - **Variantes de contexto**: cada PREA aceptada queda guardada como variante de su regla (modelo, año, operación, causa, corrección, tiempo y piezas). Un caso parecido pero de otro modelo no se pierde ni se mezcla: el Agente de Garantías usa la variante del modelo que menciona la PREA.
